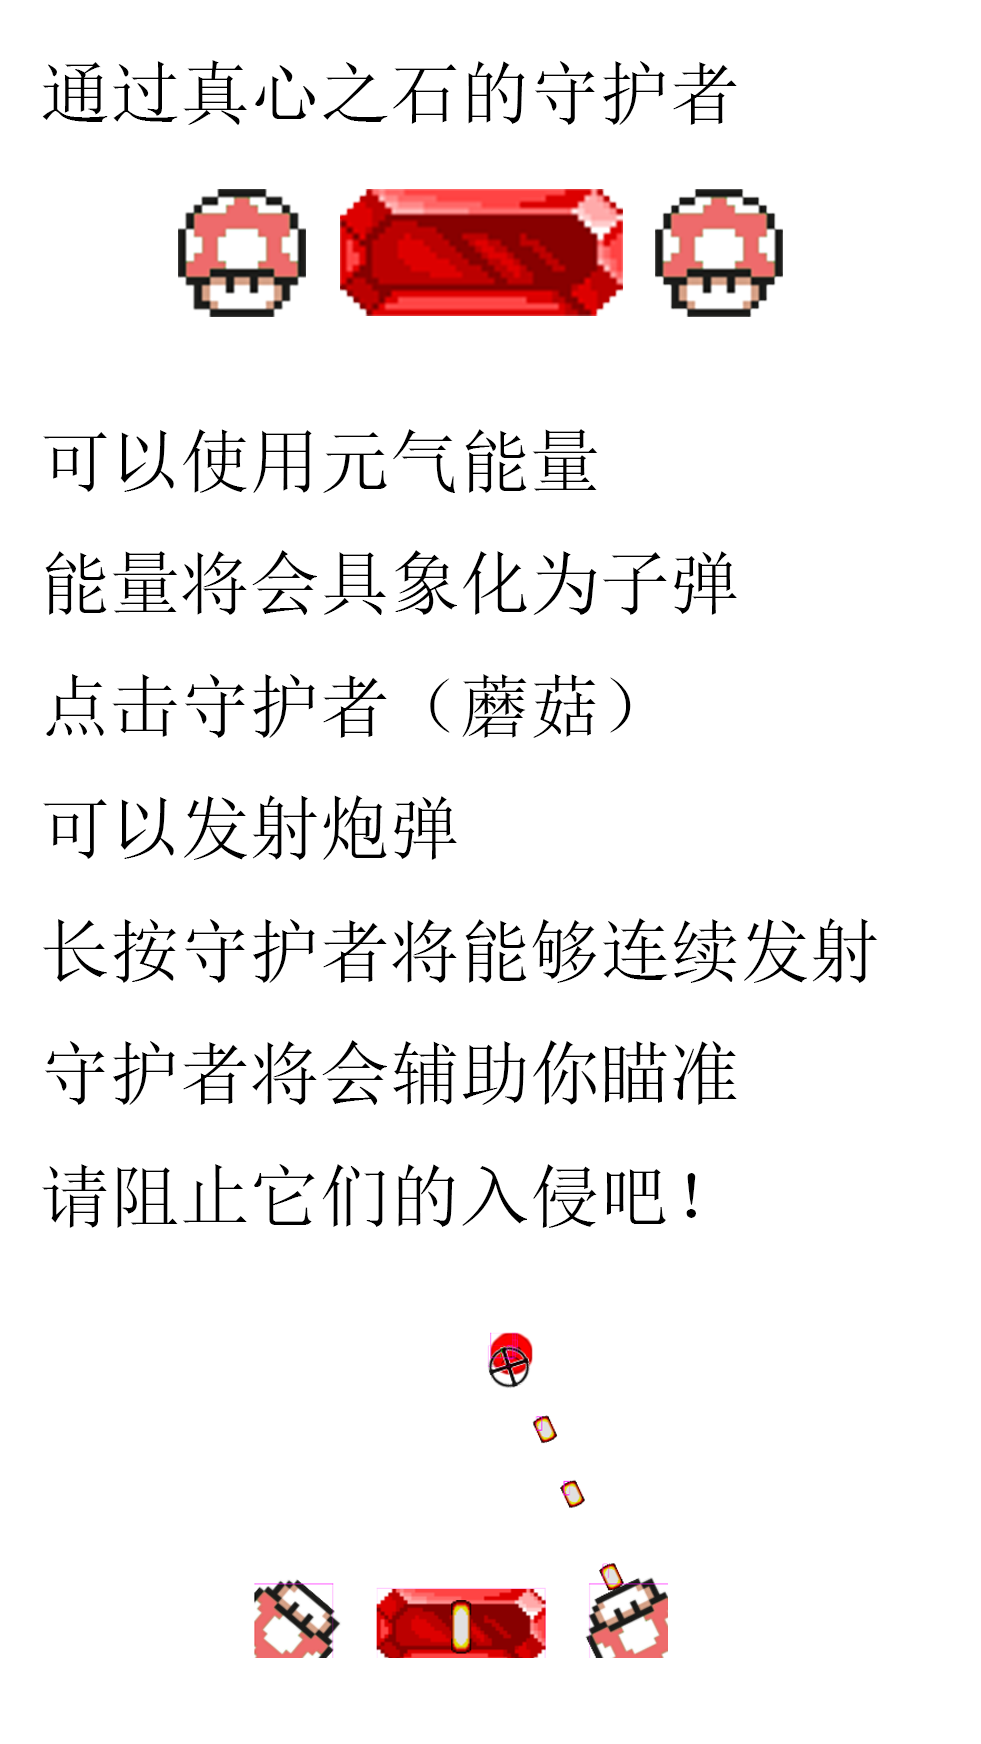
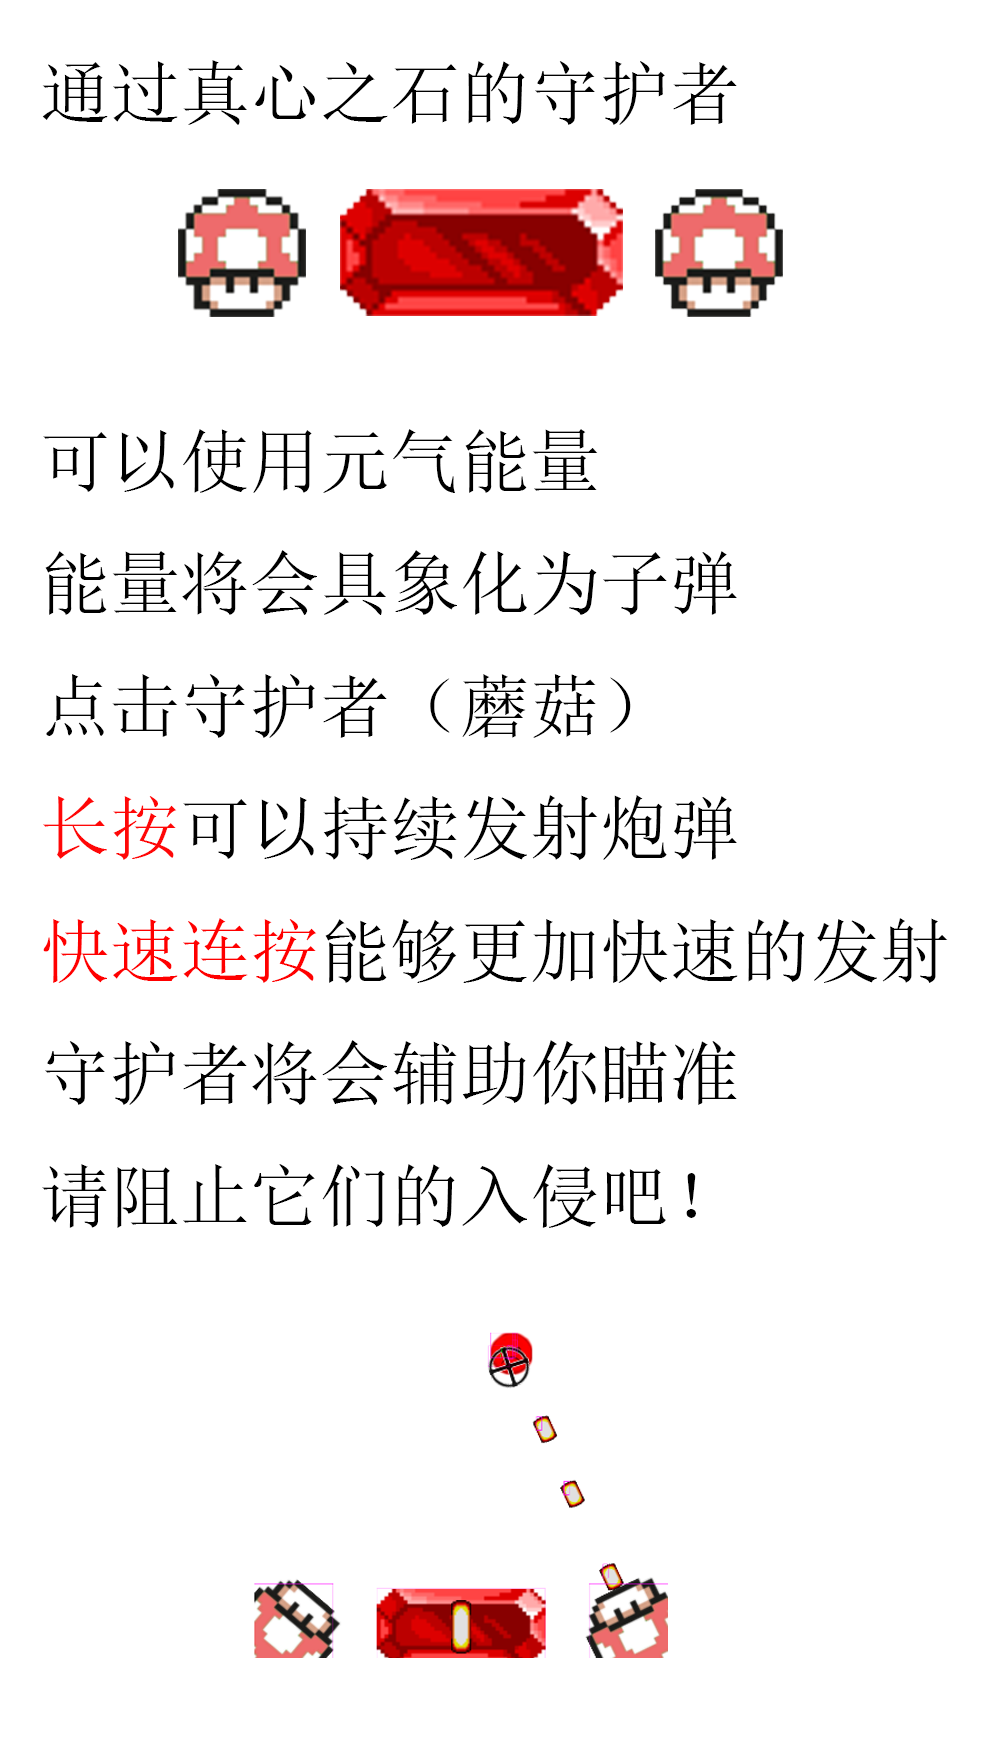
更新了说明

Changed region(s): [[0.0306, 0.5264, 0.9786, 0.5883], [0.0306, 0.4335, 0.7645, 0.4954]]

diff --git a/phaser/loveshooter/preGame.js b/phaser/loveshooter/preGame.js
@@ -45,9 +45,9 @@ class PreGame extends Phaser.Scene {
          * 初始化子弹发射器
          */
         this.emitorLeft = new Emitor(this, locking, bulletGroup);
-        this.emitorLeft.setPosition(this.emitorLeft.width / 2 + 40, config.height - this.emitorLeft.height / 2 - 40);
+        this.emitorLeft.setPosition(this.emitorLeft.width / 2 + 80, config.height - this.emitorLeft.height / 2 - 80);
         this.emitorRight = new Emitor(this, locking, bulletGroup);
-        this.emitorRight.setPosition(config.width - this.emitorRight.width / 2 - 40, config.height - this.emitorRight.height / 2 - 40);
+        this.emitorRight.setPosition(config.width - this.emitorRight.width / 2 - 80, config.height - this.emitorRight.height / 2 - 80);
 
         // 被保护的对象
         beProtectedObj = new ProtectObj(this, config.width / 2, config.height - 85);
@@ -76,7 +76,7 @@ class PreGame extends Phaser.Scene {
         enemyGenerateArea = new Phaser.Geom.Rectangle(0, 0, config.width, config.height * 0.5);
         // 定时生成敌人
         enemyGenTimeEvent = this.time.addEvent({
-            delay: 3000,
+            delay: 2300,
             callbackScope: this,
             loop: true,
             callback: this.newEnemy,

diff --git a/phaser/loveshooter/define.js b/phaser/loveshooter/define.js
@@ -25,7 +25,7 @@ class Emitor extends Phaser.Physics.Arcade.Sprite {
         scene.physics.world.enableBody(this);
 
         // 发射间隔
-        this.shootInterval = 290;
+        this.shootInterval = 310;
         // 射击开关，true 则持续射击
         this.shootSwitch = false;
         this.setInteractive()
@@ -38,7 +38,7 @@ class Emitor extends Phaser.Physics.Arcade.Sprite {
         this.on('pointerdown', function () {
             // 按下打开开关发射
             this.shootSwitch = true;
-            // this.shoot();
+            this.shoot(-1);
         }, this);
         this.on('pointerout', function () {
             // 抬起就停止发射
@@ -105,7 +105,7 @@ class Emitor extends Phaser.Physics.Arcade.Sprite {
 
         // 如果存在射击速度
         if (shootInterval) {
-            itv = shootInterval;
+            itv = shootInterval === -1 ? 0 : shootInterval;
         } else {
             itv = this.shootInterval - bulletPower * 10;
         }

diff --git a/phaser/loveshooter/mainGame.js b/phaser/loveshooter/mainGame.js
@@ -47,9 +47,9 @@ class MainGame extends Phaser.Scene {
          * 初始化子弹发射器
          */
         this.emitorLeft = new Emitor(this, locking, bulletGroup);
-        this.emitorLeft.setPosition(this.emitorLeft.width / 2 + 40, config.height - this.emitorLeft.height / 2 - 40);
+        this.emitorLeft.setPosition(this.emitorLeft.width / 2 + 80, config.height - this.emitorLeft.height / 2 - 80);
         this.emitorRight = new Emitor(this, locking, bulletGroup);
-        this.emitorRight.setPosition(config.width - this.emitorRight.width / 2 - 40, config.height - this.emitorRight.height / 2 - 40);
+        this.emitorRight.setPosition(config.width - this.emitorRight.width / 2 - 80, config.height - this.emitorRight.height / 2 - 80);
 
         // 被保护的对象
         beProtectedObj = new ProtectObj(this, config.width / 2, config.height - 85);
